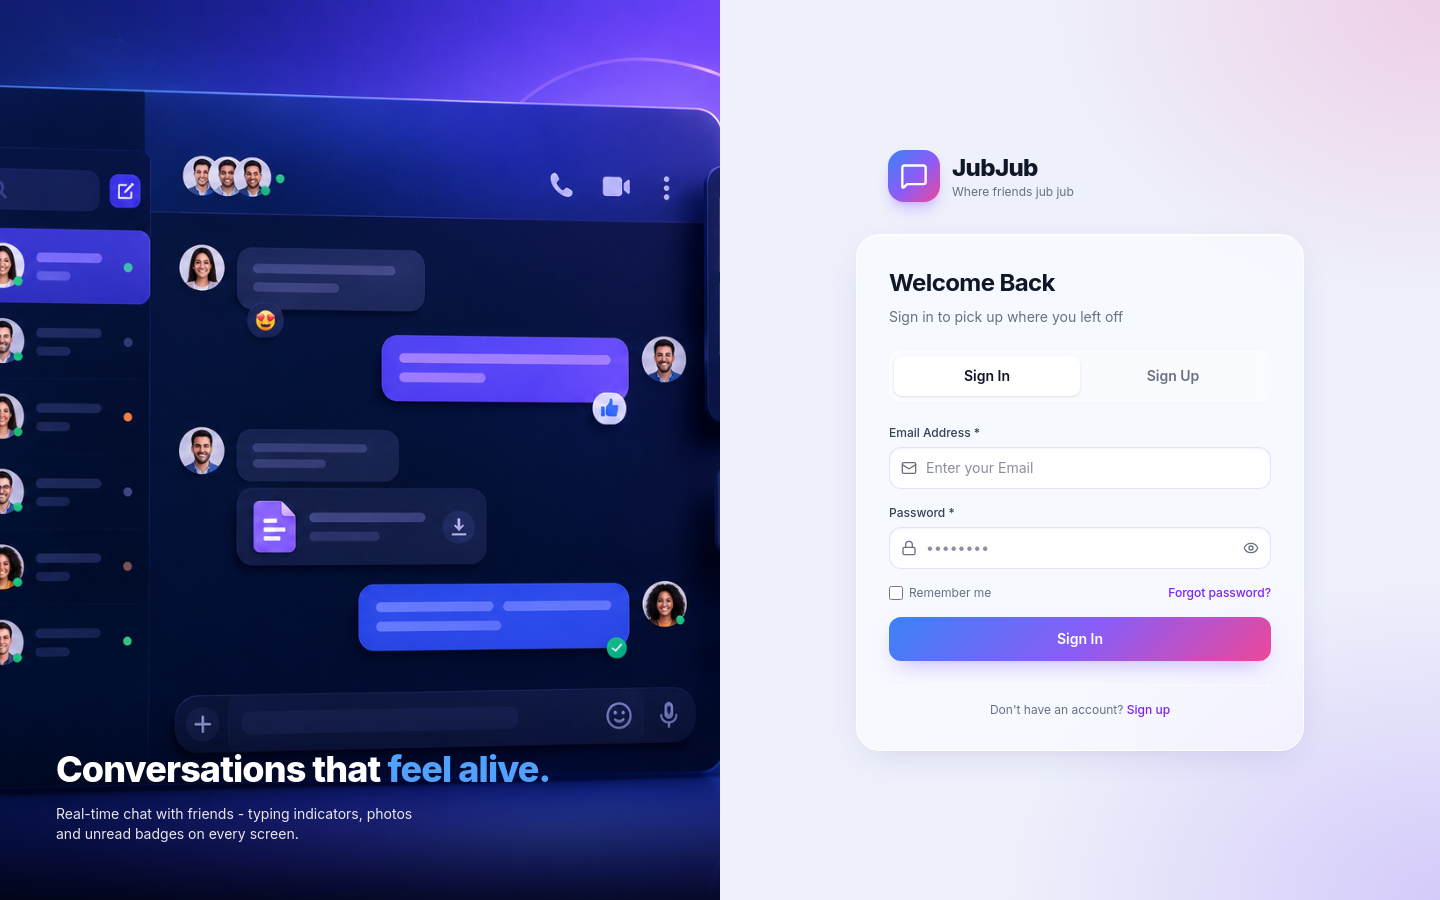
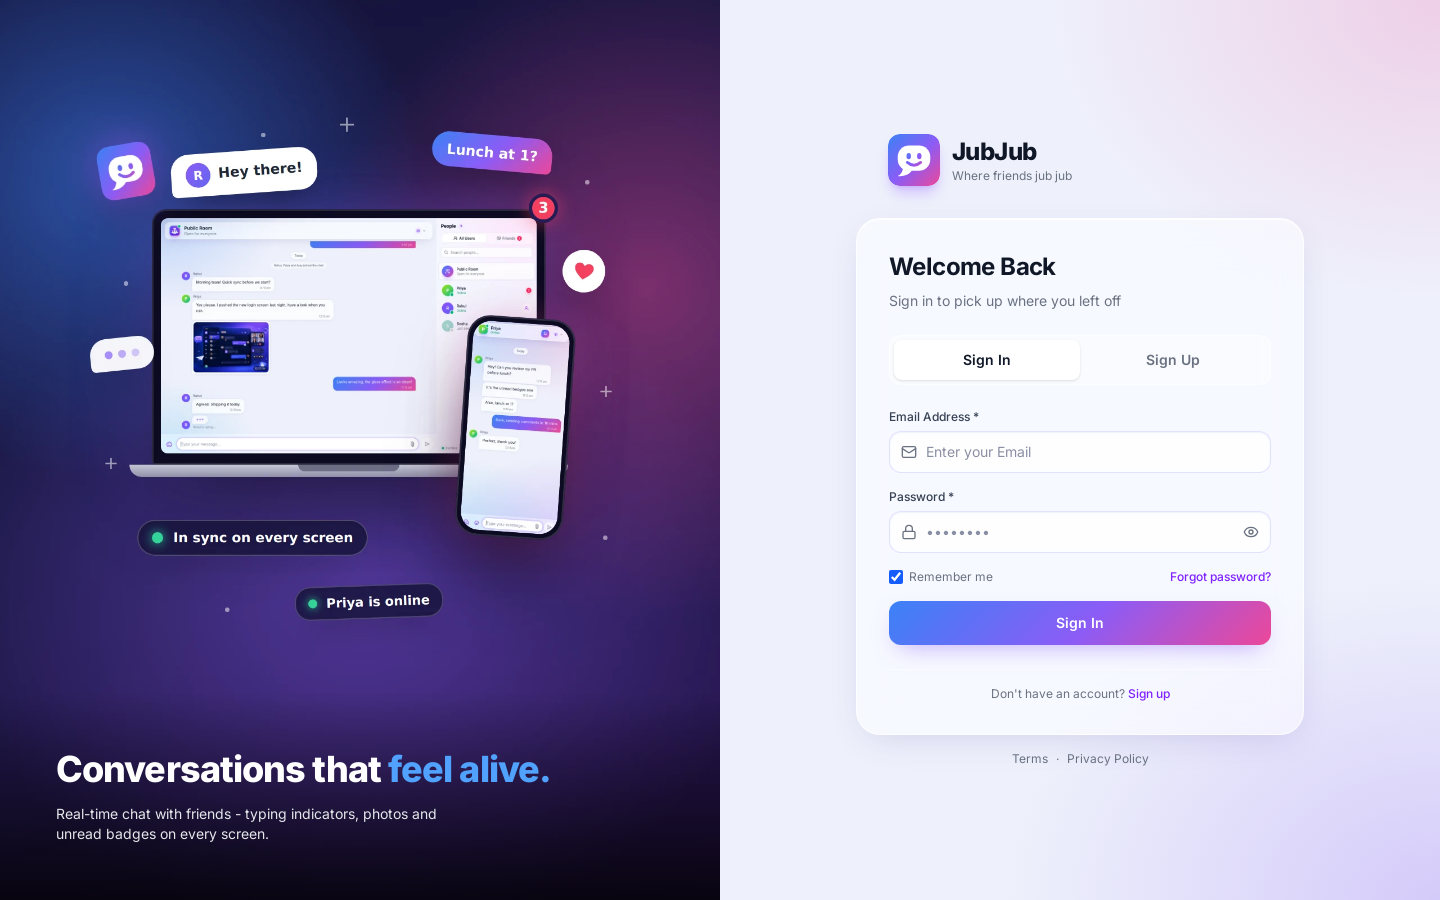
"ui clean up and making user friendly"

diff --git a/frontend/src/pages/Chat.jsx b/frontend/src/pages/Chat.jsx
@@ -263,9 +263,12 @@ const Chat = () => {
 
   return (
     // Fixed to the visible viewport (see the visualViewport effect above), so the
-    // header stays on screen and the input sits right above the mobile keyboard
+    // header stays on screen and the input sits right above the mobile keyboard.
+    // overflow-clip, not overflow-hidden: on phones the People panel waits just
+    // off-screen, and a hidden-overflow box can still be scrolled by focus (Tab,
+    // screen readers), which slid the whole chat sideways. Clip can't scroll at all.
     <div
-      className="fixed top-0 left-0 flex w-screen overflow-hidden app-bg text-gray-900"
+      className="fixed top-0 left-0 flex w-screen overflow-clip app-bg text-gray-900"
       style={{
         height: "var(--app-height, 100dvh)",
         transform: "translateY(var(--app-offset, 0px))",

diff --git a/frontend/src/pages/Login.jsx b/frontend/src/pages/Login.jsx
@@ -196,7 +196,7 @@ const Login = () => {
         <div className="hidden lg:block lg:w-1/2 h-full relative overflow-hidden">
           <img
             src={loginImage}
-            alt="Login Illustration"
+            alt="JubJub chat open on a laptop and a phone"
             // Lazy images inside a hidden panel aren't downloaded, so phones skip it
             loading="lazy"
             className="w-full h-full object-cover"

diff --git a/README.md b/README.md
@@ -1,8 +1,10 @@
 <div align="center">
 
-# 💬 JubJub
+<img src="frontend/public/logo.svg" alt="JubJub logo: a smiling speech bubble" width="96" />
 
-**Where friends jub jub.** A real-time chat app with a public room, private chats, live typing, photos and unread badges, designed mobile-first with a frosted-glass UI.
+# JubJub
+
+**Where friends jub jub.** A real-time chat app with a public room, private chats, live typing, photos and unread badges, plus full account management (password reset by email, settings, muting), designed mobile-first with a frosted-glass UI.
 
 [![Live demo](https://img.shields.io/badge/Live%20demo-talkmate--ezzq.onrender.com-8b5cf6?style=for-the-badge)](https://talkmate-ezzq.onrender.com)
 
@@ -35,8 +37,9 @@
 
 <table>
   <tr>
-    <td align="center" width="68%"><img src="docs/screenshots/login-desktop.png" alt="Sign-in page on desktop" /><br /><sub><b>Sign in</b> (desktop)</sub></td>
-    <td align="center"><img src="docs/screenshots/signup-phone.png" alt="Sign-up page on a phone" width="220" /><br /><sub><b>Sign up</b> (phone)</sub></td>
+    <td align="center" width="56%"><img src="docs/screenshots/login-desktop.png" alt="Sign-in page on desktop with Remember me and Forgot password" /><br /><sub><b>Sign in</b> (desktop)</sub></td>
+    <td align="center"><img src="docs/screenshots/signup-phone.png" alt="Sign-up page on a phone" width="200" /><br /><sub><b>Sign up</b> (phone)</sub></td>
+    <td align="center"><img src="docs/screenshots/settings-phone.png" alt="Settings sheet on a phone: mute chat, display name and password" width="200" /><br /><sub><b>Settings</b>: mute, name, password</sub></td>
   </tr>
 </table>
 
@@ -48,12 +51,20 @@
 - ⚡ **Real-time chat** over WebSockets (Socket.IO): a public room for everyone plus 1-to-1 private chats
 - ✍ **Typing indicator** that appears live and clears the moment the message is sent
 - 📷 **Photos**: pick from your gallery or take one with the camera (the phone's own camera on mobile, an in-app webcam on desktop), uploaded to Cloudinary
+- 🔁 **Nothing gets lost**: if a message can't be sent (server error, no reply within 10 s, or offline), you get an error and your text and photos are put back in the box
 - 😀 Emoji picker, multi-line messages (Enter to send, Shift+Enter for a new line)
 - 🗓 Date separators (*Today*, *Yesterday*, weekday) and "X, Y and Z joined the chat" grouping
 
 **People & presence**
-- 👥 Add friends, search people, online / *last seen* status updated live
+- 👥 Add friends, search people, online / *last seen* status updated live everywhere (people list, friends list and the chat header)
 - 🔴 **Unread badges** per chat, **even for messages that arrived while you were offline**. The server remembers what each user last read, so counts stay correct across reloads and devices.
+- 🔕 **Mute** any chat: no unread badges from it, on every device
+
+**Accounts**
+- ✅ **Remember me**: stay signed in for 30 days, or untick it on a shared computer to be signed out when the browser closes
+- 📧 **Forgot password**: a one-time reset link by email, valid for 30 minutes
+- ⚙ **Settings**: change your display name or password; changing the password signs you out on your other devices
+- 📄 Terms and Privacy pages
 
 **Built for mobile**
 - 📐 Responsive from 360px phones to wide desktops; the people list becomes a slide-over panel on small screens
@@ -61,11 +72,14 @@
 - 🖐 Feels native: no accidental pinch/double-tap zoom, no pull-to-refresh bounce, no tap flashes
 
 **Security**
-- 🔐 JWT authentication (7-day sessions) with a clean "session expired" sign-out
+- 🔐 JWT authentication (30-day "remembered" or 1-day sessions) with a clean "session expired" sign-out
+- 🔄 Changing or resetting a password **immediately** invalidates every older login (each token carries a version number the server checks)
+- ✉ Password reset can't be used to discover who has an account (same answer for any email), stores only a hash of the emailed code, works once, and is rate-limited (3 per email per hour)
 - 🛡 Private chats are readable and writable **only by their participants**, both over REST and WebSockets
 - 🪪 The sender of every message comes from the login token, so messages can't be sent under someone else's name
 - 📤 Uploads require login; attachments must come from the app's own Cloudinary account
-- 🔑 Passwords hashed with bcrypt; unique emails
+- 🔑 Passwords hashed with bcrypt; emails are unique and matched ignoring capitals (`Ajay@…` = `ajay@…`), but stored as typed
+- 🙈 Private account fields (reset codes, muted chats, token versions) are never sent to other users
 
 ---
 
@@ -74,8 +88,8 @@
 | Layer | Technology |
 |---|---|
 | **Frontend** | React 18, Vite, Tailwind CSS 4, React Router 7, React Hook Form + Yup, Socket.IO client, Axios, Emoji Mart, Sonner (toasts), Lucide icons |
-| **Backend** | Node.js, Express 5, Socket.IO, Mongoose, JSON Web Tokens, bcrypt, Multer |
-| **Data & media** | MongoDB Atlas, Cloudinary |
+| **Backend** | Node.js, Express 5, Socket.IO, Mongoose, JSON Web Tokens, bcrypt, Multer, Nodemailer |
+| **Data & media** | MongoDB Atlas, Cloudinary, any SMTP email provider (Gmail, Resend, …) |
 | **Hosting** | Render (frontend + backend) |
 
 ---
@@ -91,13 +105,14 @@ flowchart LR
     end
 
     subgraph Server["Node.js server"]
-        REST["Express REST API<br/>auth · users · rooms · friends · messages · unread"]
+        REST["Express REST API<br/>auth · users · rooms · friends · messages · unread · settings"]
         RT["Socket.IO<br/>join-room · sendMessage · typing · notifications"]
         AUTH["JWT auth<br/>(HTTP + socket handshake)"]
     end
 
     DB[("MongoDB Atlas<br/>users · rooms · messages<br/>friends · read states")]
     CDN[("Cloudinary<br/>images")]
+    MAIL[("SMTP<br/>reset emails")]
 
     UI --> API --> AUTH --> REST
     UI <--> WS <--> AUTH
@@ -105,6 +120,7 @@ flowchart LR
     REST --> DB
     RT --> DB
     REST -- "uploads" --> CDN
+    REST -- "password reset" --> MAIL
 ```
 
 **How a message travels**
@@ -126,22 +142,24 @@ flowchart LR
 │   └── src/
 │       ├── config/             # MongoDB and Cloudinary setup
 │       ├── features/           # one folder per feature: routes → controller → repository → schema
-│       │   ├── user/           #   sign-up / sign-in / users list
+│       │   ├── user/           #   sign-up / sign-in / users list / settings / password reset
 │       │   ├── room/           #   public & private rooms, unread counts, read states
 │       │   ├── friend/
 │       │   ├── message/
 │       │   └── cloudinaryupload/
 │       ├── middlewares/        # JWT auth (HTTP + socket), uploads, error handler
 │       ├── realTime/           # online / offline presence
-│       └── socket/             # Socket.IO events
+│       ├── socket/             # Socket.IO events
+│       └── utils/              # login tokens, input rules, email sending, search
 ├── frontend/
 │   ├── index.html
+│   ├── public/                 # logo and app icons
 │   └── src/
-│       ├── pages/              # Login, Chat, ChatHeader, MessageItem, MessageInput, OnlineUsers…
-│       ├── components/         # routing, camera capture
-│       ├── contexts/           # AuthProvider: session, current room, unread counts
+│       ├── pages/              # Login, Chat, ChatHeader, MessageItem, MessageInput, OnlineUsers, ResetPassword, Legal…
+│       ├── components/         # routing, camera capture, settings
+│       ├── contexts/           # AuthProvider: session, current room, unread counts, muted chats
 │       ├── services/           # Axios client
-│       ├── utils/              # session expiry, avatar colours, date formatting
+│       ├── utils/              # session & Remember me, input rules, avatar colours, date formatting
 │       └── index.css           # theme tokens (colours, glass, buttons)
 └── docs/screenshots/
 ```
@@ -171,13 +189,24 @@ Create `backend/.env` with **your own** values (placeholders shown):
 PORT=5000
 MONGO_URI=<your-mongodb-connection-string>
 JWT_SECRET=<a-long-random-secret>
-JWT_EXPIRES_IN=7d
+JWT_EXPIRES_IN=30d          # length of a "Remember me" login (others last 1 day)
 NODE_ENV=development
+FRONTEND_URI=http://localhost:5173   # used to build password-reset links
 
 CLOUDINARY_CLOUD_NAME=<your-cloudinary-cloud-name>
 CLOUDINARY_API_KEY=<your-cloudinary-api-key>
 CLOUDINARY_API_SECRET=<your-cloudinary-api-secret>
+
+# Optional: email for "Forgot password". Without these, the reset link is
+# printed in the backend console instead, which is handy for local testing.
+SMTP_HOST=smtp.gmail.com     # Resend: smtp.resend.com
+SMTP_PORT=465
+SMTP_USER=<your-gmail-address>        # Resend: resend
+SMTP_PASS=<your-gmail-app-password>   # Resend: your API key
+MAIL_FROM="JubJub <your-gmail-address>"
 ```
+
+> Gmail needs 2-step verification turned on to create an [app password](https://myaccount.google.com/apppasswords).
 
 > 🔒 Keep real credentials only in `.env` (it's git-ignored) and in your hosting provider's environment settings. Never commit them or paste them into issues or READMEs.
 ```bash
@@ -206,17 +235,23 @@ The shared public room is created automatically the first time the backend start
 
 ## 🔌 API overview
 
-All endpoints except sign-up / sign-in need `Authorization: Bearer <token>`.
+All endpoints except sign-up, sign-in, forgot-password and reset-password need `Authorization: Bearer <token>`.
 
 | Method | Endpoint | Description |
 |---|---|---|
 | `POST` | `/api/user/signUp` | Create an account (returns a token) |
-| `POST` | `/api/user/signIn` | Sign in (returns a token) |
+| `POST` | `/api/user/signIn` | Sign in (returns a token; `rememberMe: false` for a 1-day login) |
+| `POST` | `/api/user/forgot-password` | Email a reset link (`{ email }`) |
+| `POST` | `/api/user/reset-password` | Set a new password with the emailed code (`{ token, password }`) |
+| `PATCH` | `/api/user/profile` | Change your display name (`{ name }`) |
+| `PATCH` | `/api/user/password` | Change your password (`{ currentPassword, newPassword }`); returns a fresh token |
+| `POST` | `/api/user/logout` | Sign out |
 | `GET` | `/api/user/allUsers?name=&isOnline=` | List / search users |
 | `POST` | `/api/room/createRoom` | Start a private chat with a user (`{ friendId }`) |
 | `GET` | `/api/room/private?name=` | Your private chats, with the other person's details |
-| `GET` | `/api/room/unread` | Unread counts per chat `{ roomId: count }` |
+| `GET` | `/api/room/unread` | Unread counts per chat `{ roomId: count }` and your muted chats |
 | `POST` | `/api/room/:roomId/read` | Mark a chat as read |
+| `POST` | `/api/room/:roomId/mute` | Mute or unmute a chat (`{ muted: true \| false }`) |
 | `GET` | `/api/messages/getMessages?roomId=` | Messages of a room you belong to |
 | `POST` | `/api/friend/add` | Add a friend |
 | `GET` | `/api/friend/getFriends` | Your friends |
@@ -228,8 +263,9 @@ All endpoints except sign-up / sign-in need `Authorization: Bearer <token>`.
 |---|---|---|
 | client → server | `join-room` | Open a chat (refused with `room-error` if you're not a member) |
 | client → server | `sendMessage` | Send a message / photos (acknowledged) |
-| client → server | `typing`, `stop-typing` | Typing indicator |
-| server → client | `message` | New message in the open chat |
+| client → server | `typing`, `stop-typing` | Typing indicator (the server also clears it if you leave the chat or disconnect) |
+| client → server | `refresh-profile` | Use your new display name after renaming |
+| server → client | `message` | New message in the open chat (only after it's saved) |
 | server → client | `message-notification` | New message elsewhere → unread badge |
 | server → client | `userTyping`, `userStopTyping` | Someone is typing |
 | server → client | `user-status-changed` | Someone came online / went offline |
@@ -240,8 +276,8 @@ All endpoints except sign-up / sign-in need `Authorization: Bearer <token>`.
 
 The live version runs on **Render** (a *Web Service* for the backend and a *Static Site* for the frontend) with **MongoDB Atlas**.
 
-- **Backend:** build `npm install`, start `npm start`, and set the environment variables above in Render.
-- **Frontend:** build `npm install && npm run build`, publish `dist/`, set `VITE_API_URL` to the backend URL, and add a rewrite of `/*` → `/index.html` so routes like `/chat` work on refresh.
+- **Backend:** build `npm install`, start `npm start`, and set the environment variables above in Render. Set `FRONTEND_URI` to your live frontend URL and add the `SMTP_*` settings so reset emails are actually sent.
+- **Frontend:** build `npm install && npm run build`, publish `dist/`, set `VITE_API_URL` to the backend URL, and add a rewrite of `/*` → `/index.html` so routes like `/chat`, `/reset-password` and `/terms` work on refresh.
 - **CORS:** the allowed frontend origin is set in `backend/app.js` and `backend/src/socket/socketLogic.js`. Update it if your frontend URL changes.
 - **Atlas free tier:** clusters pause after ~60 days without connections. If the backend logs `querySrv ENOTFOUND`, resume the cluster in Atlas.
 
